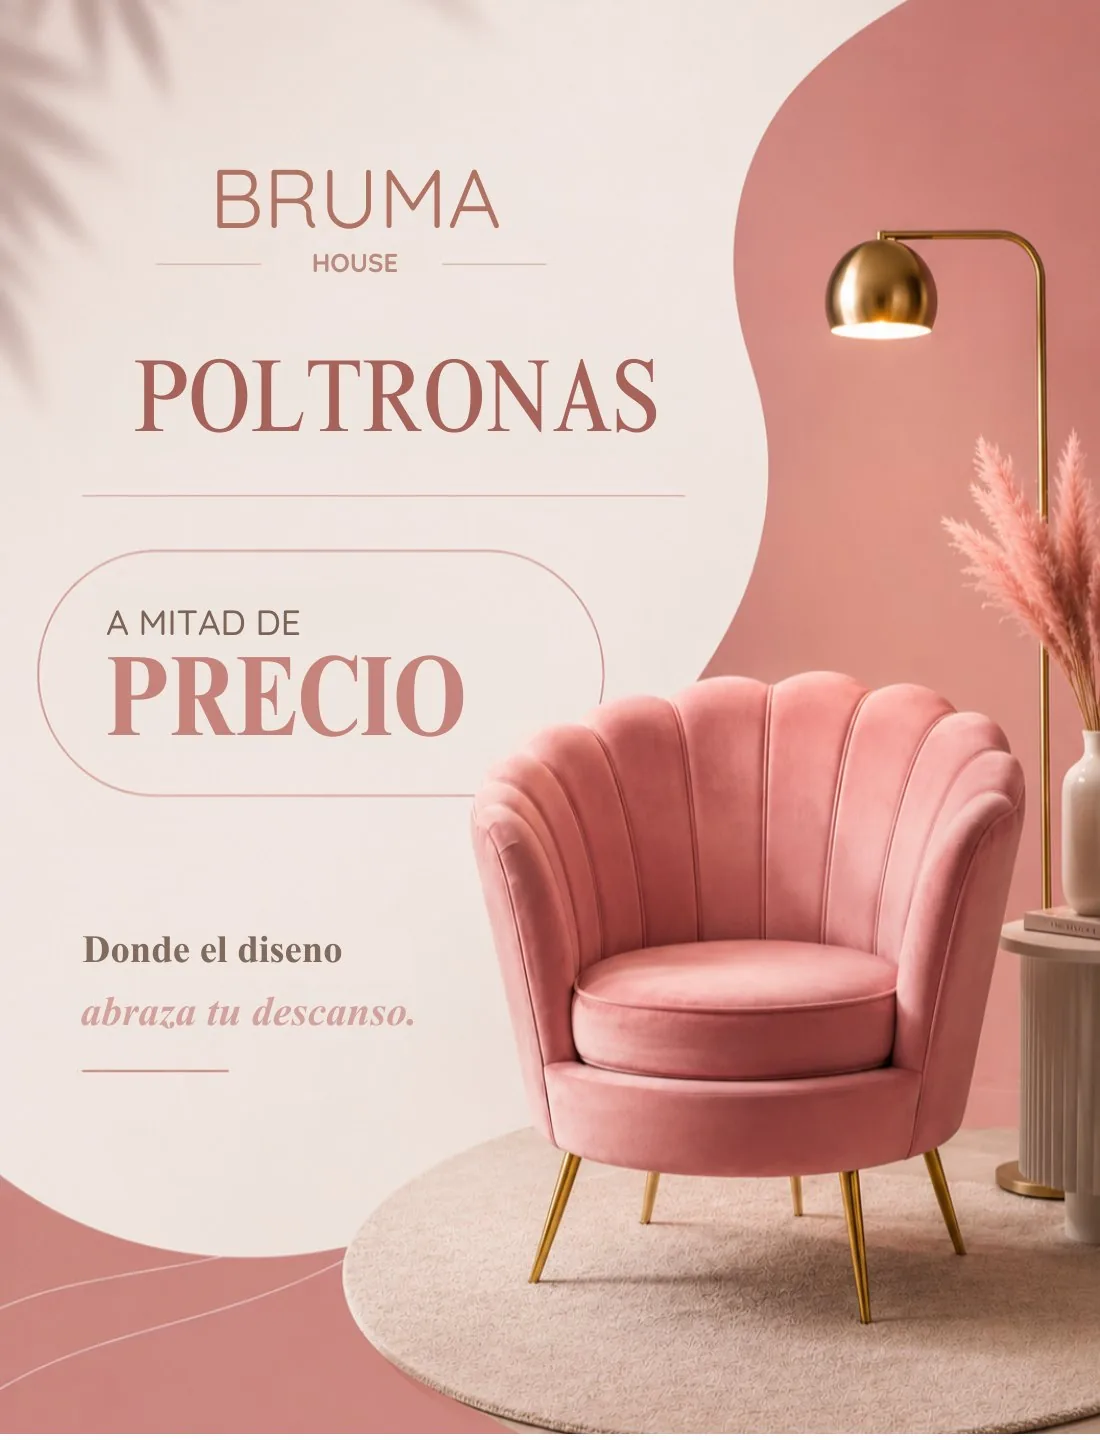
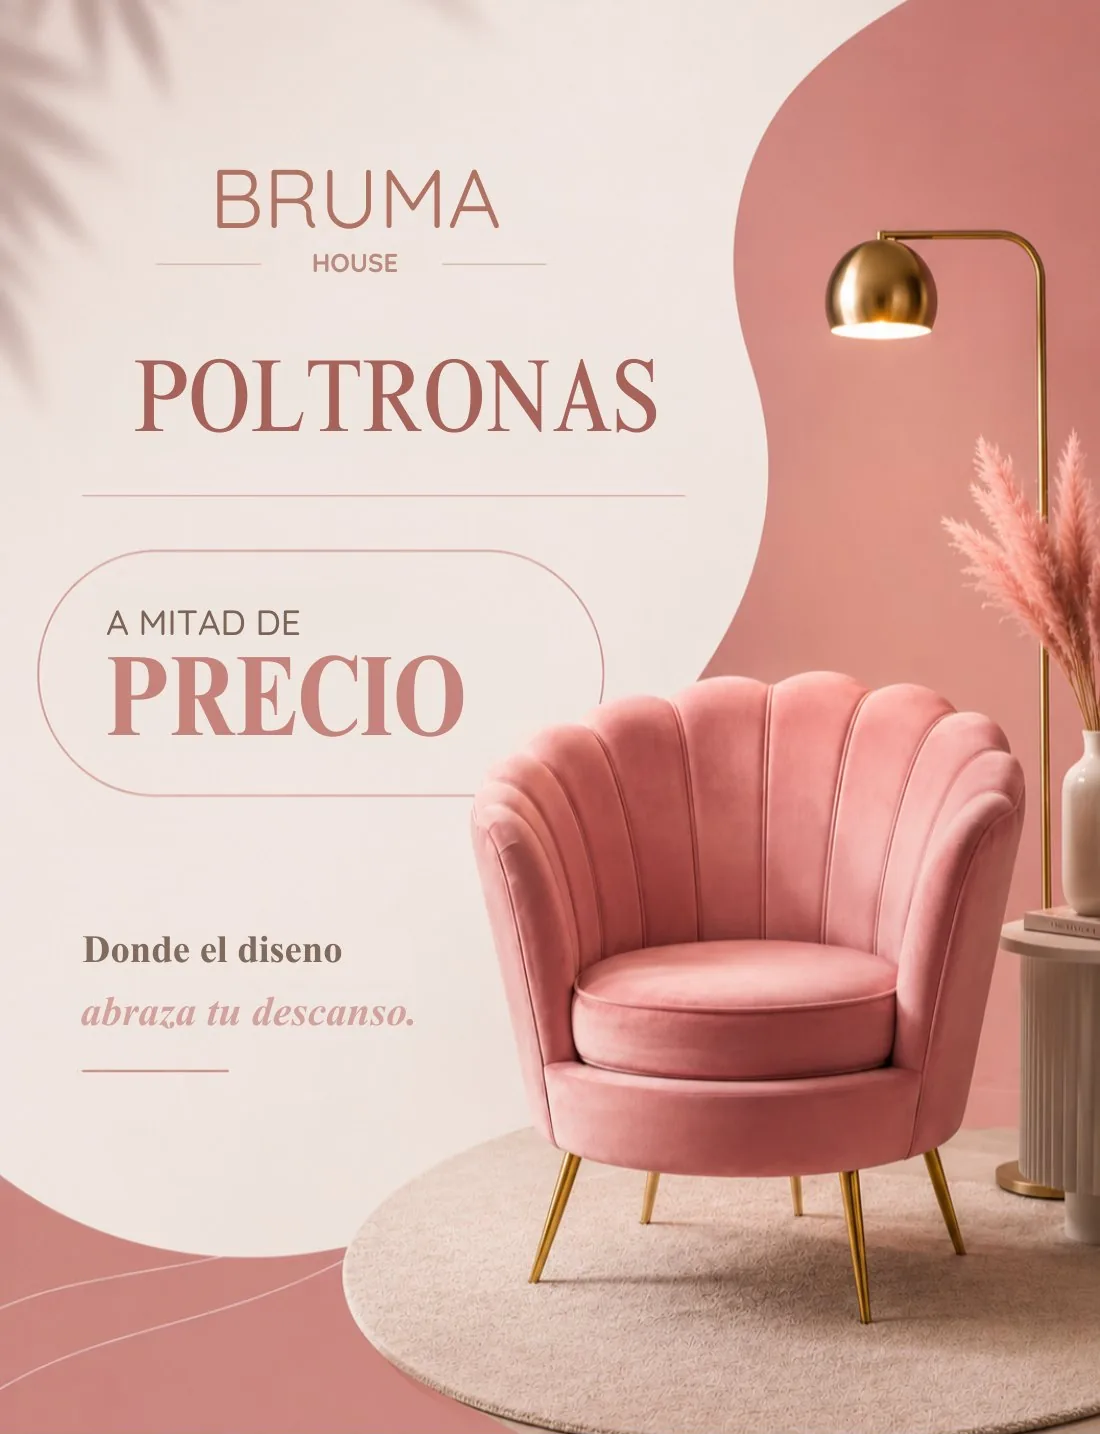
Bruma House: se recorta la franja blanca de 6 px que traia la imagen en el borde inferior

diff --git a/index.html b/index.html
@@ -385,8 +385,8 @@
           <div class="vitrina__pie"><span class="vitrina__num">IV</span><h3>MitchMu · Colección de tonos</h3><p>Social Media · 2025</p></div>
         </article>
 
-        <article class="vitrina" data-visor data-src="assets/img/bruma-house.webp" data-titulo="Bruma House · Poltronas" data-pie="Publicidad · 2025" data-num="V" style="--ar:.7644">
-          <div class="vitrina__caja"><img width="688" height="900" src="assets/img/thumb/bruma-house.webp" alt="Pieza promocional de poltronas Bruma House." loading="lazy"></div>
+        <article class="vitrina" data-visor data-src="assets/img/bruma-house.webp" data-titulo="Bruma House · Poltronas" data-pie="Publicidad · 2025" data-num="V" style="--ar:.7679">
+          <div class="vitrina__caja"><img width="688" height="896" src="assets/img/thumb/bruma-house.webp" alt="Pieza promocional de poltronas Bruma House." loading="lazy"></div>
           <div class="vitrina__pie"><span class="vitrina__num">V</span><h3>Bruma House · Poltronas</h3><p>Publicidad · 2025</p></div>
         </article>
 
